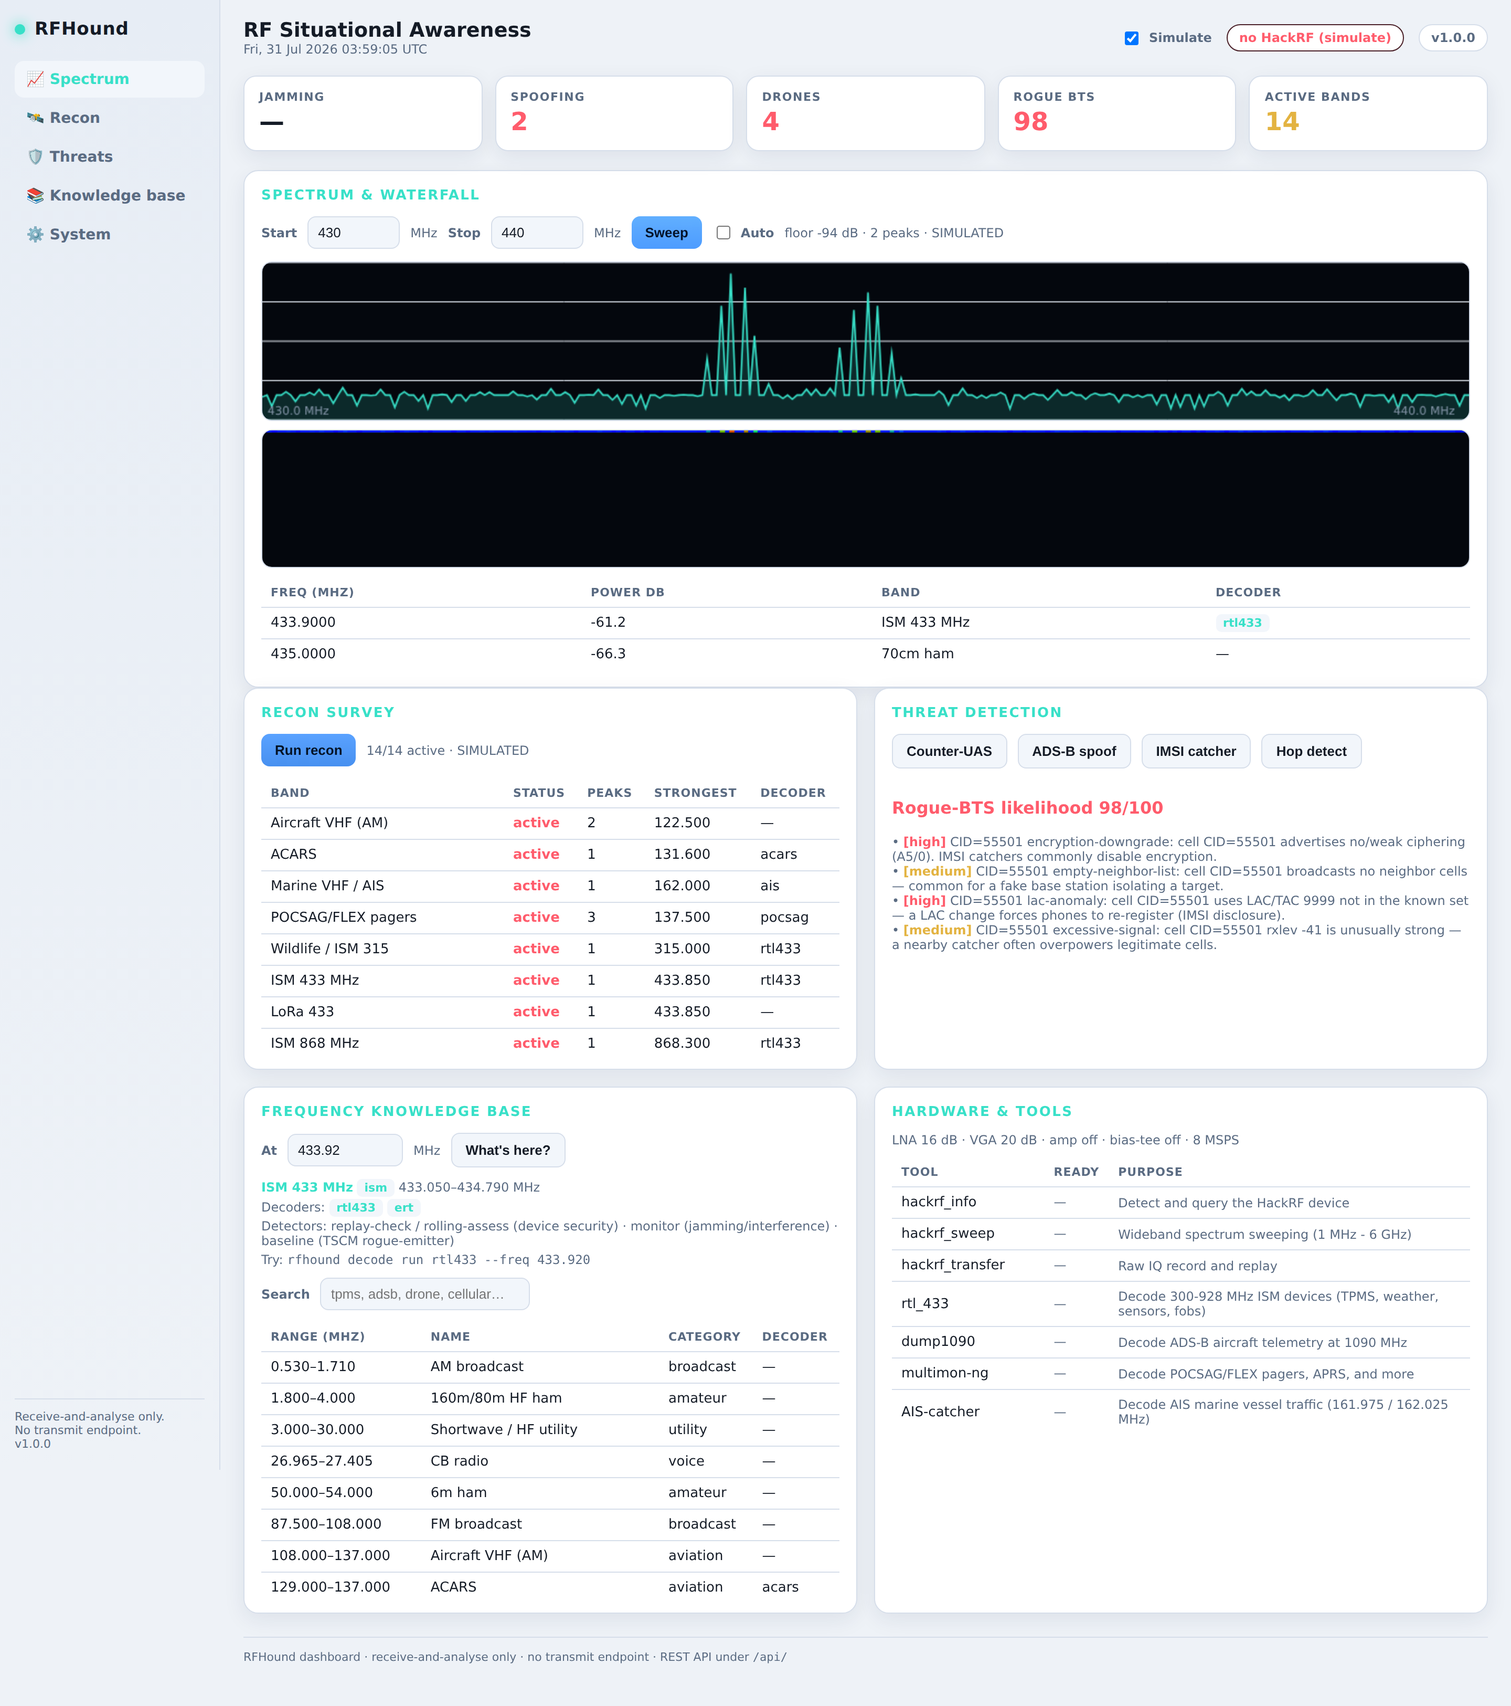
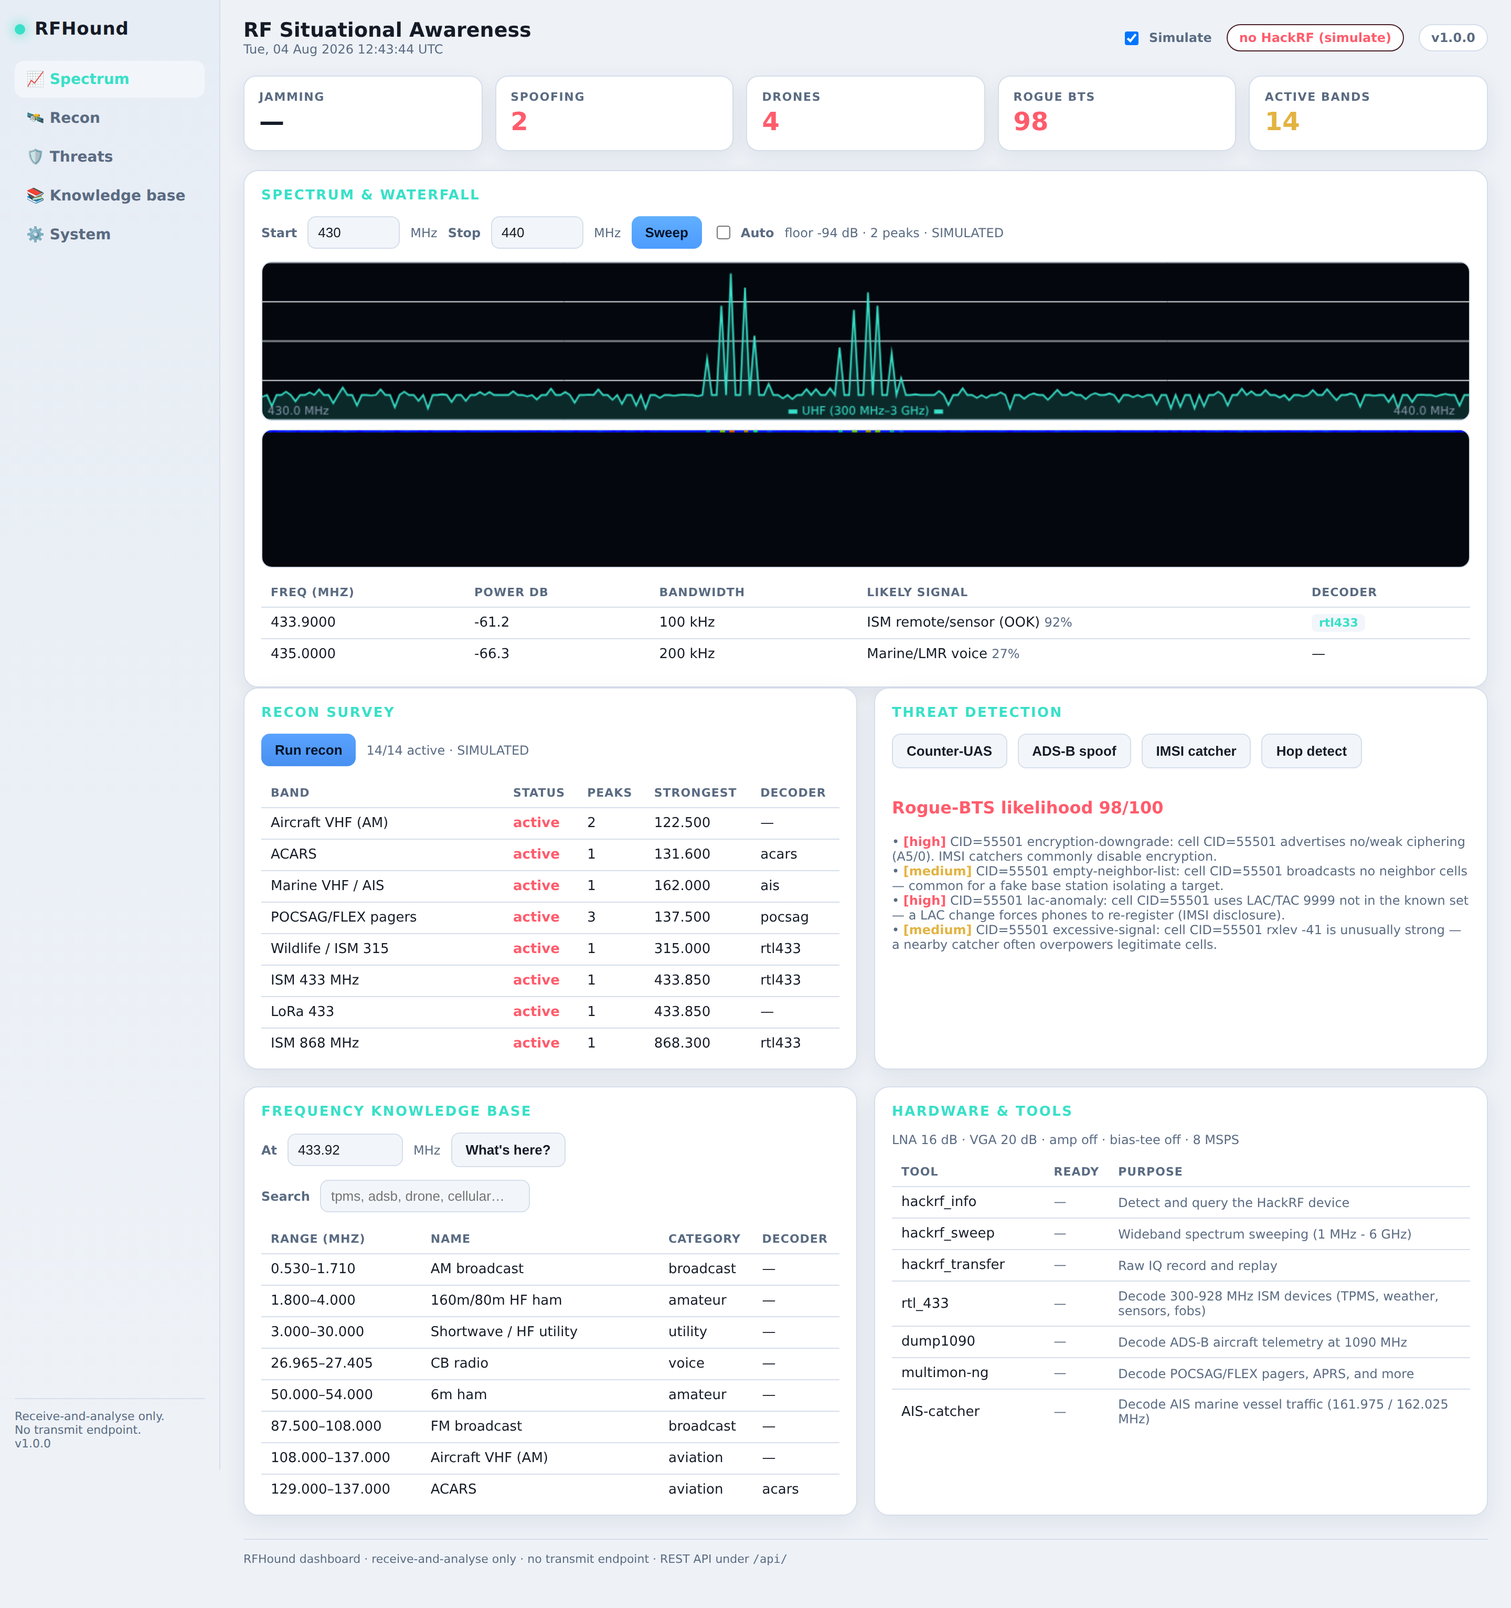
UX pass: modernise the interactive menu, help epilog, dashboard click-to-tune
Assessment of the tool as a maker/user surfaced one big gap and some polish:

- Interactive menu was stale (5 of ~20 features). Rewrote it into a proper
  console: Recon · Spectrum (+auto-identify) · Identify a frequency/protocol ·
  Threat detection submenu (jamming/drone/spoof/IMSI/hop/response) · Decoders ·
  Knowledge base · Bookmarks · Web dashboard · Doctor. Dict-dispatched, with
  status spinners and graceful bad-input handling.
- 'rfhound --help' now has a quick-start epilog pointing at the key commands
  and docs.
- Dashboard: peak rows are click-to-inspect (load into the frequency lookup);
  sweep peaks already show bandwidth + likely-signal + confidence; ITU band
  label rendered on the spectrum. Refreshed screenshot.

Full walkthrough verified: 27 commands run cleanly, 151 tests pass,
flake8-clean.

Claude-Session: https://claude.ai/code/session_019kBPe76Sg6YFkj56b2ysQV

diff --git a/rfhound/web/dashboard.html b/rfhound/web/dashboard.html
@@ -217,7 +217,11 @@ async function doSweep(){
     $('#sweepInfo').textContent=`floor ${d.noise_floor_db} dB · ${d.peaks.length} peaks`+(d.simulated?' · SIMULATED':'');
     const tb=$('#peaks tbody');tb.innerHTML='';
     d.peaks.forEach(p=>tb.insertAdjacentHTML('beforeend',
-      `<tr><td>${p.freq_mhz.toFixed(4)}</td><td>${p.power_db}</td><td>${p.bandwidth_khz?p.bandwidth_khz.toFixed(0)+' kHz':'—'}</td><td>${p.guess||p.band||'—'} ${p.confidence?`<span class="muted">${p.confidence}%</span>`:''}</td><td>${p.decoder?`<span class="tag">${p.decoder}</span>`:'—'}</td></tr>`));
+      `<tr style="cursor:pointer" title="Click to inspect this frequency" data-f="${p.freq_mhz.toFixed(4)}"><td>${p.freq_mhz.toFixed(4)}</td><td>${p.power_db}</td><td>${p.bandwidth_khz?p.bandwidth_khz.toFixed(0)+' kHz':'—'}</td><td>${p.guess||p.band||'—'} ${p.confidence?`<span class="muted">${p.confidence}%</span>`:''}</td><td>${p.decoder?`<span class="tag">${p.decoder}</span>`:'—'}</td></tr>`));
+    tb.querySelectorAll('tr[data-f]').forEach(tr=>tr.onclick=()=>{
+      $('#atFreq').value=tr.dataset.f; doAt();
+      document.getElementById('bands').scrollIntoView({behavior:'smooth',block:'center'});
+    });
   }catch(e){$('#sweepInfo').textContent='error: '+e.message;}
 }
 async function doRecon(){

diff --git a/rfhound/menu.py b/rfhound/menu.py
@@ -1,8 +1,8 @@
 """Guided interactive menu — the friendly front door.
 
-For people who don't want to memorise subcommands. Every action here maps onto
-the same modules the CLI uses, and it will happily run in ``--simulate`` mode
-when no HackRF is attached.
+For people who don't want to memorise subcommands. Every action maps onto the
+same modules the CLI uses, and it runs in ``--simulate`` mode when no HackRF is
+attached. Kept in step with the CLI so newcomers can reach every capability.
 """
 
 from __future__ import annotations
@@ -10,28 +10,34 @@ from __future__ import annotations
 from pathlib import Path
 
 from . import bandplan, console, device
-from .config import Config
+from .config import Config, save_config
 from .exceptions import RFHoundError
+from .modules import cellular as cellular_mod
+from .modules import classify as classify_mod
 from .modules import decode as decode_mod
+from .modules import defense as defense_mod
+from .modules import intel as intel_mod
 from .modules import recon as recon_mod
+from .modules import response as response_mod
 from .modules import sweep as sweep_mod
+from .modules import toolbox as toolbox_mod
 
 
 def _hardware_or_simulate() -> bool:
-    """Return True if we should simulate (no hardware present)."""
     if device.is_present():
         return False
     console.warn("No HackRF detected — running in SIMULATE mode.")
     return True
 
 
+# --------------------------------------------------------------------------- #
 def _menu_recon(cfg: Config, simulate: bool) -> None:
-    console.rule("Recon survey")
-    report = recon_mod.run_recon(cfg, simulate=simulate)
+    console.rule("Recon survey — what's around me?")
+    with console.status("Surveying high-value bands…"):
+        report = recon_mod.run_recon(cfg, simulate=simulate, progress=False)
     recon_mod.summarize(report)
     if console.confirm("Save a report?", default=False):
-        name = console.ask("Report path", default="rfhound-recon.md")
-        out = Path(name)
+        out = Path(console.ask("Report path", default="rfhound-recon.md"))
         from .modules import report as report_mod
         fmt = "html" if out.suffix.lower() in (".html", ".htm") else "md"
         report_mod.write_report(report, out, fmt=fmt)
@@ -42,16 +48,112 @@ def _menu_sweep(cfg: Config, simulate: bool) -> None:
     console.rule("Spectrum sweep")
     start = float(console.ask("Start MHz", default="430"))
     stop = float(console.ask("Stop MHz", default="440"))
-    result = sweep_mod.sweep(cfg, start, stop, simulate=simulate)
+    with console.status(f"Sweeping {start}-{stop} MHz…"):
+        result = sweep_mod.sweep(cfg, start, stop, simulate=simulate)
     sweep_mod.render_spectrum(result)
-    rows = [
-        [f"{p.freq_mhz:.4f}", f"{p.power_db}", p.band.name if p.band else "unknown"]
-        for p in result.peaks[:15]
-    ]
-    if rows:
-        console.table("Peaks", ["Freq (MHz)", "Power (dB)", "Band"], rows)
+    if result.peaks:
+        rows = []
+        for p in result.peaks[:15]:
+            bw = classify_mod.estimate_bandwidth_khz(result, p.freq_hz)
+            g = classify_mod.classify(p.freq_mhz, bandwidth_khz=bw)[0]
+            rows.append([f"{p.freq_mhz:.4f}", f"{p.power_db}",
+                         f"{bw:.0f} kHz" if bw else "—", f"{g.name} ({g.likelihood}%)",
+                         g.decoder or "—"])
+        console.table("Peaks — auto-identified",
+                      ["Freq (MHz)", "Power dB", "Bandwidth", "Likely signal", "Decoder"], rows)
     else:
         console.warn("No peaks found.")
+
+
+def _menu_identify(cfg: Config, simulate: bool) -> None:
+    console.rule("Identify a frequency / protocol")
+    q = console.ask("Frequency in MHz, or a protocol name (adsb, tpms, pager…)",
+                    default="433.92")
+    try:
+        freq = float(q)
+    except ValueError:
+        matches = toolbox_mod.tune_search(q)
+        if not matches:
+            console.warn(f"No band matches '{q}'.")
+            return
+        rows = [[f"{m.tune_mhz:.4f}", m.name, m.category, m.decoder or "—"] for m in matches]
+        console.table(f"Tune to — '{q}'", ["Freq (MHz)", "Band", "Category", "Decoder"], rows)
+        return
+    tb = toolbox_mod.at_frequency(freq)
+    itu = bandplan.itu_label(int(freq * 1e6))
+    guess = classify_mod.classify(freq)[0]
+    if tb:
+        console.print_(f"[bold]{tb.band.name}[/bold] · {itu} · likely: {guess.name} "
+                       f"({guess.likelihood}%)" if console.have_rich() else
+                       f"{tb.band.name} · {itu} · likely: {guess.name} ({guess.likelihood}%)")
+        console.print_("Decoders: " + (", ".join(tb.decoders) or "—"))
+        console.print_("Detectors: " + ", ".join(tb.detectors[:3]))
+        console.print_("Try: " + (tb.commands[2] if len(tb.commands) > 2 else tb.commands[0]))
+    else:
+        console.print_(f"{itu} · likely: {guess.name} ({guess.likelihood}%) "
+                       "(outside the curated band plan)")
+
+
+def _menu_threats(cfg: Config, simulate: bool) -> None:
+    items = [
+        "Jamming / interference monitor",
+        "Counter-UAS (drone) scan",
+        "ADS-B spoofing check",
+        "Rogue base station / IMSI-catcher",
+        "Frequency-hopping detection",
+        "Response playbook for a threat",
+        "Back",
+    ]
+    while True:
+        console.rule("Threat detection")
+        for i, label in enumerate(items, 1):
+            console.print_(f"  {i}. {label}")
+        c = console.ask("Choose", default="7")
+        if c in ("7", "b", "back", ""):
+            return
+        try:
+            if c == "1":
+                lo = float(console.ask("Start MHz", default="433"))
+                hi = float(console.ask("Stop MHz", default="435"))
+                rep = defense_mod.monitor_interference(cfg, lo, hi, iterations=12, simulate=simulate)
+                defense_mod.print_interference(rep)
+            elif c == "2":
+                hits = intel_mod.drone_scan(cfg, simulate=simulate)
+                if hits:
+                    console.error(f"{len(hits)} drone-band detection(s):")
+                    for h in hits:
+                        console.print_(f"  • {h.band} {h.freq_mhz} MHz ({h.confidence})")
+                else:
+                    console.success("No drone activity.")
+            elif c == "3":
+                msgs = intel_mod.simulate_adsb_messages() if simulate else []
+                f = intel_mod.detect_adsb_spoofing(msgs)
+                (console.error if f else console.success)(f"{len(f)} ADS-B spoof indicator(s).")
+                for x in f:
+                    console.print_(f"  • {x.entity_id}: {x.kind} — {x.detail}")
+            elif c == "4":
+                obs = cellular_mod.simulate_observations() if simulate else []
+                al = cellular_mod.detect_rogue_bts(obs)
+                sc = cellular_mod.score(al)
+                (console.error if al else console.success)(f"Rogue-BTS likelihood {sc}/100.")
+                for a in al:
+                    console.print_(f"  • [{a.severity}] {a.indicator}")
+            elif c == "5":
+                sl = intel_mod.simulate_hopping_slices(hopping=True) if simulate else []
+                r = intel_mod.detect_frequency_hopping(sl)
+                (console.error if r.hopping_suspected else console.success)(r.detail)
+            elif c == "6":
+                t = console.ask("Threat", default="jamming",
+                                choices=response_mod.list_threats())
+                pb = response_mod.get_playbook(t)
+                if pb:
+                    console.print_(pb.summary)
+                    for step in pb.immediate:
+                        console.print_(f"  • {step}")
+            else:
+                console.warn("Invalid choice.")
+        except (RFHoundError, ValueError) as exc:
+            console.error(str(exc))
 
 
 def _menu_bands(cfg: Config) -> None:
@@ -59,22 +161,19 @@ def _menu_bands(cfg: Config) -> None:
     console.print_("Categories: " + ", ".join(sorted({b.category for b in bandplan.BANDS})))
     cat = console.ask("Filter by category (blank = all)", default="")
     bands = bandplan.bands_by_category(cat) if cat else bandplan.BANDS
-    rows = [
-        [f"{b.low_hz/1e6:.3f}-{b.high_hz/1e6:.3f}", b.name, b.category, b.decoder or "-"]
-        for b in bands
-    ]
+    rows = [[f"{b.low_hz/1e6:.3f}-{b.high_hz/1e6:.3f}", b.name, b.category, b.decoder or "-"]
+            for b in bands]
     console.table("Bands (MHz)", ["Range", "Name", "Category", "Decoder"], rows)
 
 
 def _menu_decoders(cfg: Config, simulate: bool) -> None:
     console.rule("Protocol decoders")
-    recipes = decode_mod.list_recipes()
     rows = []
-    for i, r in enumerate(recipes, 1):
+    for r in decode_mod.list_recipes():
         available, _ = decode_mod.check_recipe(r)
-        rows.append([str(i), r.id, r.name, "ready" if available else "tool missing"])
-    console.table("Recipes", ["#", "ID", "Name", "Status"], rows)
-    choice = console.ask("Recipe id to run (blank to cancel)", default="")
+        rows.append([r.id, r.name, "ready" if available else "tool missing"])
+    console.table("Recipes", ["ID", "Name", "Status"], rows)
+    choice = console.ask("Recipe id to inspect (blank to cancel)", default="")
     if not choice:
         return
     recipe = decode_mod.get_recipe(choice)
@@ -85,13 +184,39 @@ def _menu_decoders(cfg: Config, simulate: bool) -> None:
     cmd = decode_mod.run_decoder(recipe, cfg, dry_run=True)
     console.print_(f"Command: {cmd[0]}")
     if simulate:
-        console.warn("Simulate mode: not executing decoder (no hardware).")
+        console.warn("Simulate mode: not executing (no hardware).")
         return
     if console.confirm("Run it now?", default=False):
         try:
             decode_mod.run_decoder(recipe, cfg, seconds=20, on_line=console.print_)
         except RFHoundError as exc:
             console.error(str(exc))
+
+
+def _menu_bookmarks(cfg: Config) -> None:
+    console.rule("Bookmarks / memory channels")
+    if cfg.bookmarks:
+        rows = [[b.get("name", ""), f"{b.get('freq_mhz', 0):.4f}", b.get("note", "")]
+                for b in sorted(cfg.bookmarks, key=lambda x: x.get("freq_mhz", 0))]
+        console.table("Saved", ["Name", "Freq (MHz)", "Note"], rows)
+    else:
+        console.print_("(none yet)")
+    if console.confirm("Add a bookmark?", default=False):
+        name = console.ask("Name")
+        freq = float(console.ask("Frequency MHz"))
+        note = console.ask("Note", default="")
+        cfg.bookmarks = [b for b in cfg.bookmarks if b.get("name") != name]
+        cfg.bookmarks.append({"name": name, "freq_mhz": freq, "note": note})
+        save_config(cfg)
+        console.success(f"Saved '{name}'.")
+
+
+def _menu_web(cfg: Config) -> None:
+    console.rule("Web dashboard")
+    console.print_("Launch the browser dashboard + REST API with:")
+    console.print_("  rfhound web --open            # real hardware")
+    console.print_("  rfhound --simulate web --open # no hardware")
+    console.print_("(It runs until Ctrl-C, so start it in its own terminal.)")
 
 
 def _menu_doctor(cfg: Config) -> None:
@@ -101,43 +226,40 @@ def _menu_doctor(cfg: Config) -> None:
 
 
 MENU = [
-    ("Recon survey (what's around me?)", _menu_recon),
-    ("Spectrum sweep (custom range)", _menu_sweep),
-    ("Browse frequency knowledge base", None),
-    ("Protocol decoders", _menu_decoders),
-    ("Environment check (doctor)", None),
+    ("Recon survey (what's around me?)", lambda c, s: _menu_recon(c, s)),
+    ("Spectrum sweep (+ auto-identify)", lambda c, s: _menu_sweep(c, s)),
+    ("Identify a frequency / protocol", lambda c, s: _menu_identify(c, s)),
+    ("Threat detection", lambda c, s: _menu_threats(c, s)),
+    ("Protocol decoders", lambda c, s: _menu_decoders(c, s)),
+    ("Frequency knowledge base", lambda c, s: _menu_bands(c)),
+    ("Bookmarks", lambda c, s: _menu_bookmarks(c)),
+    ("Web dashboard", lambda c, s: _menu_web(c)),
+    ("Environment check (doctor)", lambda c, s: _menu_doctor(c)),
     ("Quit", None),
 ]
 
 
 def run_menu(cfg: Config) -> int:
     simulate = _hardware_or_simulate()
+    quit_n = len(MENU)
     while True:
         console.rule("RFHound — main menu")
         for i, (label, _) in enumerate(MENU, 1):
             console.print_(f"  {i}. {label}")
-        choice = console.ask("Choose", default="1")
-        if choice in ("6", "q", "quit", "exit"):
+        choice = console.ask("Choose", default="1").strip().lower()
+        if choice in (str(quit_n), "q", "quit", "exit"):
             console.print_("73! (goodbye)")
             return 0
         try:
             n = int(choice)
-        except ValueError:
-            console.warn("Enter a number.")
+            handler = MENU[n - 1][1]
+        except (ValueError, IndexError):
+            console.warn("Enter a valid number.")
             continue
+        if handler is None:
+            return 0
         try:
-            if n == 1:
-                _menu_recon(cfg, simulate)
-            elif n == 2:
-                _menu_sweep(cfg, simulate)
-            elif n == 3:
-                _menu_bands(cfg)
-            elif n == 4:
-                _menu_decoders(cfg, simulate)
-            elif n == 5:
-                _menu_doctor(cfg)
-            else:
-                console.warn("Invalid choice.")
+            handler(cfg, simulate)
         except (RFHoundError, ValueError) as exc:
             console.error(str(exc))
         except KeyboardInterrupt:

diff --git a/tests/test_menu.py b/tests/test_menu.py
@@ -1,0 +1,53 @@
+"""Drive the interactive menu non-interactively by feeding stdin."""
+import builtins
+
+import pytest
+
+from rfhound import menu
+from rfhound.config import Config
+
+
+def _feed(monkeypatch, answers):
+    it = iter(answers)
+
+    def fake_input(prompt=""):
+        try:
+            return next(it)
+        except StopIteration:
+            return str(len(menu.MENU))  # fall through to Quit
+
+    monkeypatch.setattr(builtins, "input", fake_input)
+
+
+def test_menu_has_all_sections():
+    labels = [m[0] for m in menu.MENU]
+    for want in ["Recon", "Spectrum", "Identify", "Threat", "decoders",
+                 "knowledge base", "Bookmarks", "dashboard", "doctor", "Quit"]:
+        assert any(want.lower() in lbl.lower() for lbl in labels), want
+
+
+def test_menu_quit_immediately(monkeypatch):
+    _feed(monkeypatch, [str(len(menu.MENU))])
+    assert menu.run_menu(Config()) == 0
+
+
+def test_menu_identify_then_quit(monkeypatch, capsys):
+    # 3 = Identify; enter 1090; then Quit.
+    _feed(monkeypatch, ["3", "1090", str(len(menu.MENU))])
+    menu.run_menu(Config(simulate_mode=True))
+    out = capsys.readouterr().out
+    assert "ADS-B" in out
+
+
+def test_menu_bad_choice_recovers(monkeypatch, capsys):
+    _feed(monkeypatch, ["zzz", str(len(menu.MENU))])
+    assert menu.run_menu(Config()) == 0
+    assert "valid number" in capsys.readouterr().out
+
+
+def test_menu_threats_submenu(monkeypatch, capsys):
+    # 4 = Threats; 4 = IMSI catcher; 7 = Back; Quit.
+    _feed(monkeypatch, ["4", "4", "7", str(len(menu.MENU))])
+    menu.run_menu(Config(simulate_mode=True))
+    out = capsys.readouterr().out
+    assert "Rogue-BTS" in out or "likelihood" in out

diff --git a/rfhound/cli.py b/rfhound/cli.py
@@ -842,7 +842,20 @@ def cmd_menu(args: argparse.Namespace, cfg: Config) -> int:
 def build_parser() -> argparse.ArgumentParser:
     p = argparse.ArgumentParser(
         prog="rfhound",
-        description="HackRF reconnaissance & pentesting toolkit (receive-first).",
+        description="HackRF reconnaissance & RF situational-awareness toolkit (receive-first).",
+        epilog=(
+            "quick start:\n"
+            "  rfhound                      guided menu (run with no args)\n"
+            "  rfhound setup                one-time setup summary\n"
+            "  rfhound --simulate recon     try it with no hardware\n"
+            "  rfhound at 433.92            what's here + every tool for it\n"
+            "  rfhound tune adsb            what frequency do I need?\n"
+            "  rfhound sweep 430 440 --identify   auto-identify signals\n"
+            "  rfhound defense respond jamming    a threat's response playbook\n"
+            "  rfhound web --open           browser dashboard + REST API\n"
+            "\nfull reference: docs/HELP.md  ·  tutorial: docs/TUTORIAL.md"
+        ),
+        formatter_class=argparse.RawDescriptionHelpFormatter,
     )
     p.add_argument("--version", action="version", version=f"rfhound {__version__}")
     p.add_argument("--dev", action="store_true", help="Developer mode: verbose debug + tracebacks")
